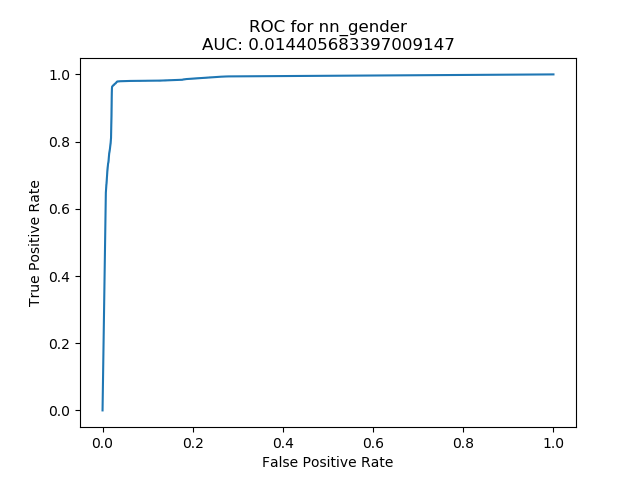
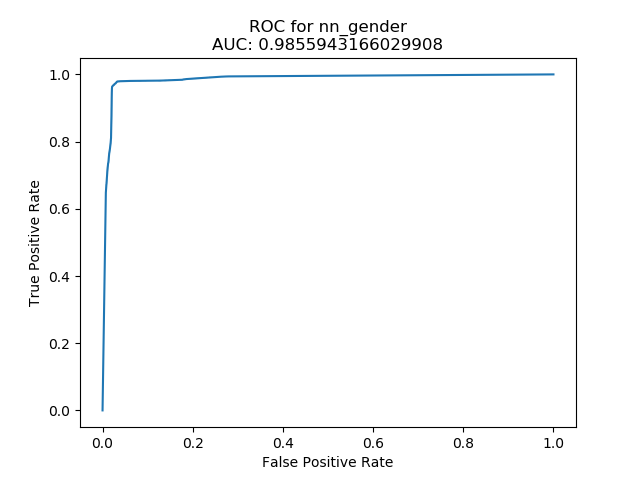
[debug] Rectified y_truth when calculate for roc-auc-score.

Changed region(s): [[0.3125, 0.0625, 0.7188, 0.125]]

diff --git a/analysis/stats.py b/analysis/stats.py
@@ -1,7 +1,7 @@
 import numpy as np
 import seaborn as sns
 from db.DataAccessObject import DataAccessObject
-from sklearn.metrics import roc_curve, roc_auc_score
+from sklearn.metrics import roc_curve, roc_auc_score, auc
 from sklearn.linear_model import LogisticRegression
 import pickle
 
@@ -97,7 +97,7 @@ def plot_roc(nn: LogisticRegression, X, y_truth, pos_label, title):
     y_predicted_prob = nn.predict_proba(X)
     y_predicted_prob = np.array([p[0] for p in y_predicted_prob])
     fpr, tpr, threshold = roc_curve(y_truth, y_predicted_prob, pos_label=pos_label)
-    roc_auc = roc_auc_score(y_truth, y_predicted_prob)
+    roc_auc = roc_auc_score([1 if p == pos_label else 0 for p in y_truth], y_predicted_prob)
     roc_plot = sns.lineplot(x="False Positive Rate", y="True Positive Rate", data={"False Positive Rate": fpr, "True Positive Rate": tpr})
     roc_plot.set_title(title + f"\nAUC: {roc_auc}")
     roc_plot.set_xlabel("False Positive Rate")
